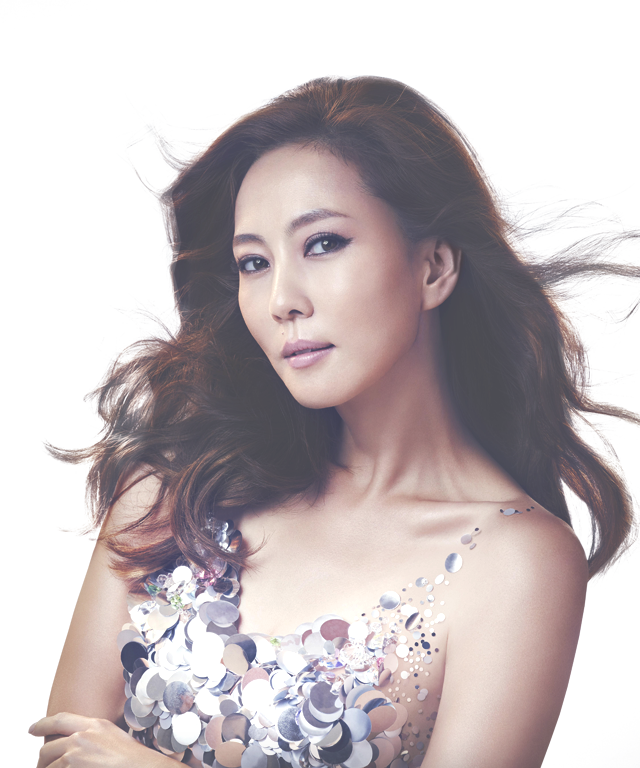
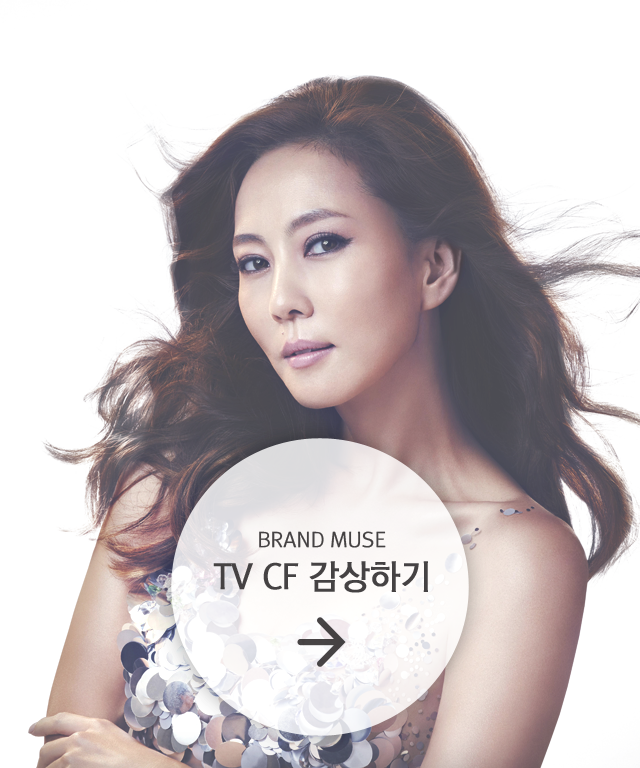
김남주 비디오 이벤트 추가

Changed region(s): [[0.25, 0.5625, 0.75, 0.9688]]

diff --git a/web_page/m/html/content/mgr0_m.main.html b/web_page/m/html/content/mgr0_m.main.html
@@ -200,6 +200,15 @@ function closeFix(){
 	$('.fix_layer').hide();
 }
 
+function closeVideo(){
+	$('.fix_video').hide();
+}
+
+function openVideo(){
+	$('.fix_layer').hide();
+	$('.fix_video').show();
+}
+
 function openMenu(){
 	$('.sidemenu').stop().animate({left:0}, 200);
 	$('.dimm').show();
@@ -209,6 +218,7 @@ function closeMenu(){
 	$('.sidemenu').stop().animate({left:-260}, 200);
 	$('.dimm').hide();
 }
+
 // 20141105 추가
 $(document).ready(function(){
 	$.ajax({
@@ -329,7 +339,7 @@ $(document).ready(function(){
 		<li>
 			<a href="tel:080-508-6631" class="tel">
 				<div>고객센터</div>
-				<div >080-508-6631</div>
+				<div>080-508-6631</div>
 			</a>
 		</li>
 	</ul>
@@ -478,7 +488,6 @@ function closeTodayPop(popupNo) {
 			<a href="#" target=""><img src="../../images/main/mm_06_01.jpg" align="absmiddle"></a>
 			<a href="#" target=""><img src="../../images/main/mm_06_02.jpg" align="absmiddle"></a>
 			<a href="#" target=""><img src="../../images/main/mm_06_03.jpg" align="absmiddle"></a>
-			<a href="#" target=""><img src="../../images/main/mm_06_04.jpg" align="absmiddle"></a>
 	</div>
 	<a href="#" target=""><img src="../../images/main/mm_07.jpg" align="absmiddle"></a>
 	<div class="shop">
@@ -546,13 +555,15 @@ function closeTodayPop(popupNo) {
 <div class="dimm"> </div>
 <!-- 20141105 -->
 </div>
-<!--
 <div class="fix_layer">
 	<a href="#" class="fix_close" onclick="javascript:closeFix();" ><img src="../../images/main/fix_event_close.png" alt="" /></a>
 	<div class="fix_logo"><img src="../../images/main/fix_event_logo.png" alt="" /></div>
-	<div class="fix_photo"><img src="../../images/main/nj.png" alt="" /></div>
+	<div class="fix_photo" onclick="javascript:closeFix();openVideo();"><img src="../../images/main/nj.png" alt="" /></div>
 </div>
--->
+<div class="fix_video">
+	<a href="#" class="fix_close" onclick="javascript:closeVideo();" ><img src="../../images/main/fix_event_close.png" alt="" /></a>
+	<iframe width="90%" height="275" src="//www.youtube.com/embed/TGUGLNaJFig?autoplay=1&amp;rel=0" frameborder="0" allowfullscreen=""></iframe>
+</div>
 <iframe class="" id="ifrmHidden" name="ifrmHidden" src='/shop/blank.php'></iframe>
 </body>
 </html>

diff --git a/web_page/m/css/main.css b/web_page/m/css/main.css
@@ -16,3 +16,8 @@ section#main .shop:after{content:""; display:block; clear:both;}
 .fix_layer .fix_photo{position:absolute; bottom:0; text-align:center; width:100%;}
 .fix_layer .fix_photo img{display:inline-block; width:320px;}
 
+.fix_video{position:fixed; width:100%; height:100%; background:#000; opacity:0.8; z-index:5100; text-align:center; display:none;}
+.fix_video iframe{position:relative; top:25%;}
+
+.fix_video .fix_close{display:block; position:absolute; top:15px; right:15px;}
+.fix_video .fix_close img{width:20px;}
